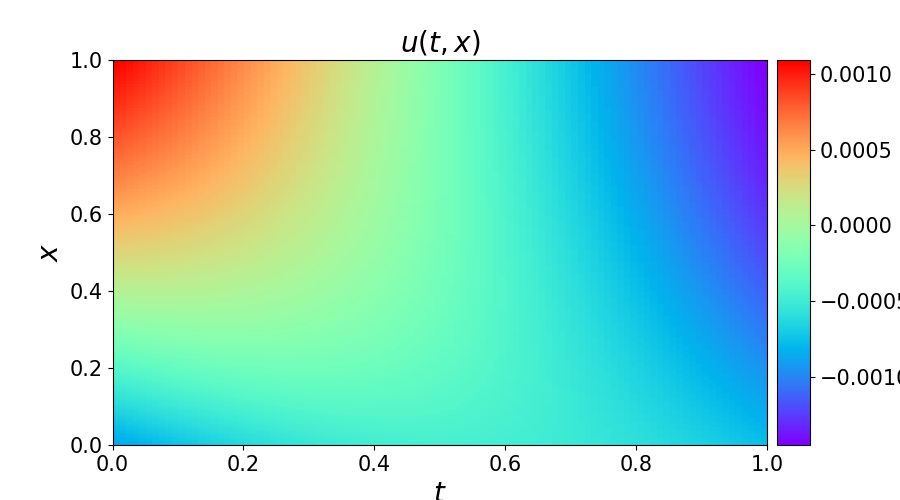
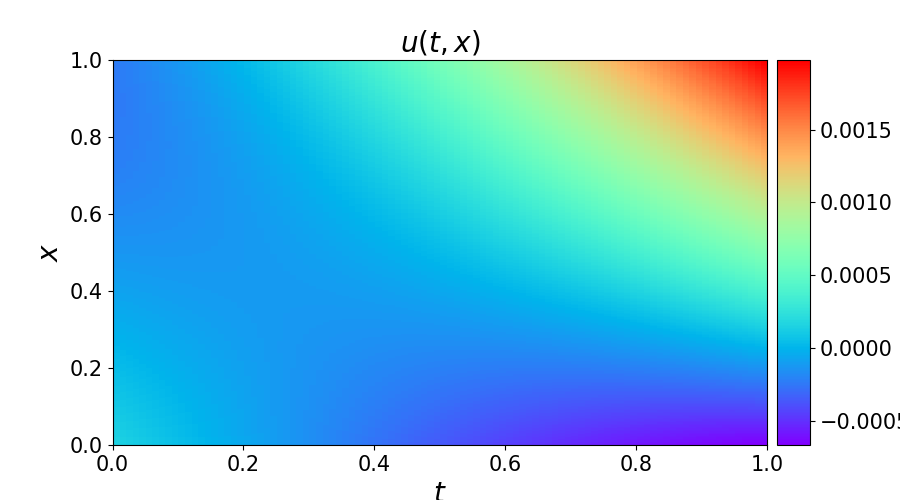
lr

diff --git a/Aupported_Beam_Equation/model.py b/Aupported_Beam_Equation/model.py
@@ -100,8 +100,8 @@ class PhysicsInformedNN:
             max_iter=5000,
             max_eval=5000,
             history_size=100,
-            tolerance_grad=1e-24,
-            tolerance_change=1.0 * np.finfo(float).eps*1e-24,
+            tolerance_grad=1e-2,
+            tolerance_change=1.0 * np.finfo(float).eps*1e-2,
             line_search_fn="strong_wolfe",  # can be "strong_wolfe"
         )
 

diff --git a/Aupported_Beam_Equation/plot_result.py b/Aupported_Beam_Equation/plot_result.py
@@ -11,7 +11,7 @@ from model import *
 
 
 if __name__ == '__main__':
-    data = scipy.io.loadmat("pred-13.mat")
+    data = scipy.io.loadmat("pred-14.mat")
     u_pred = np.real(data["u_pred"])
     
     
